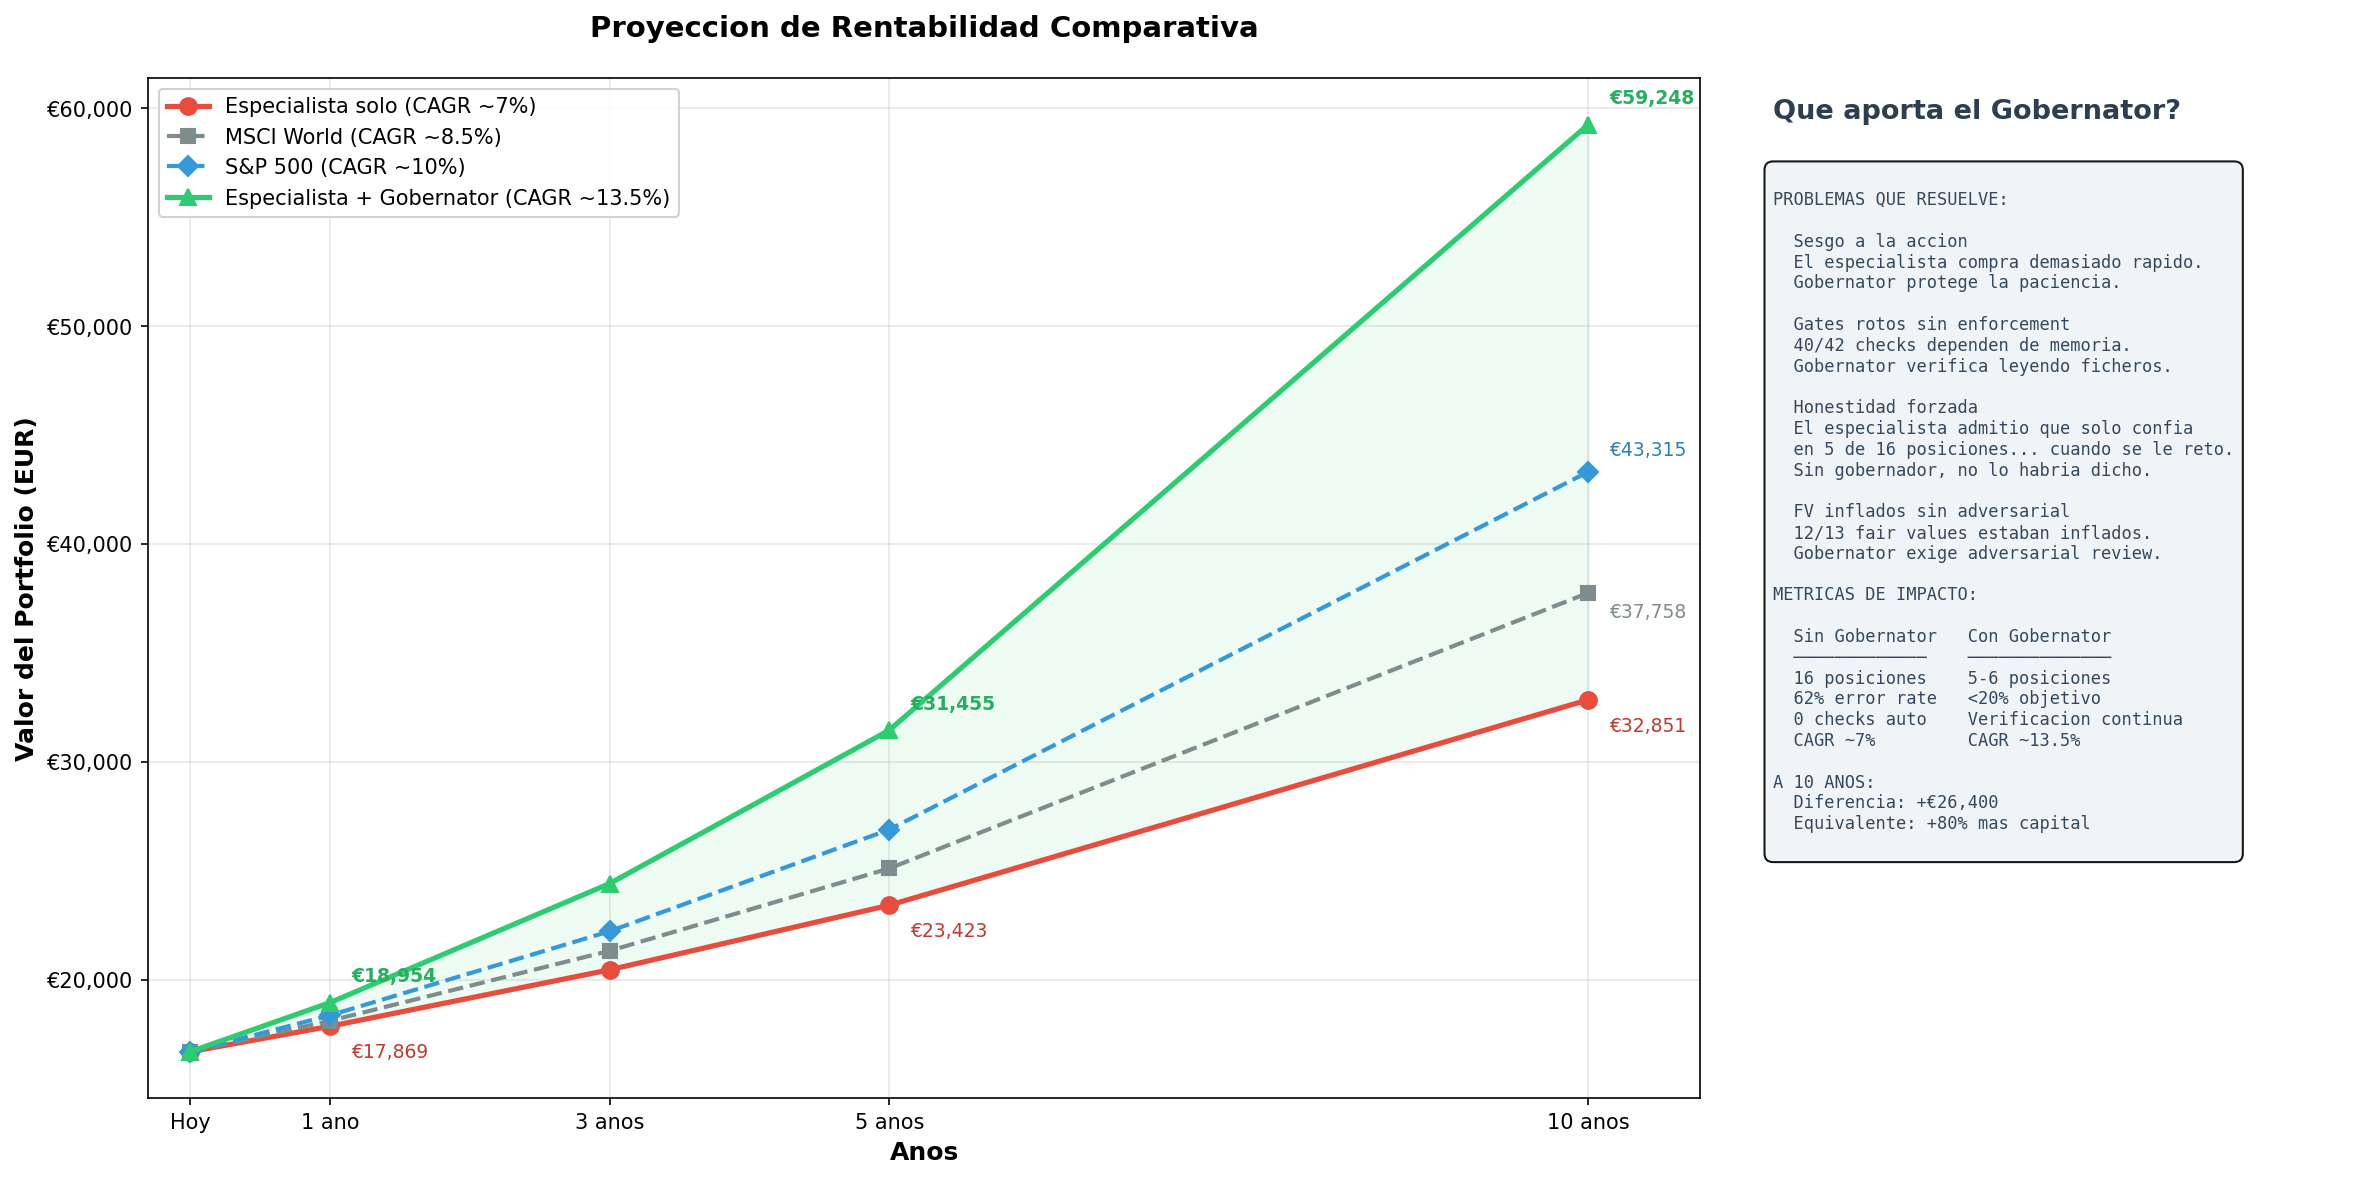
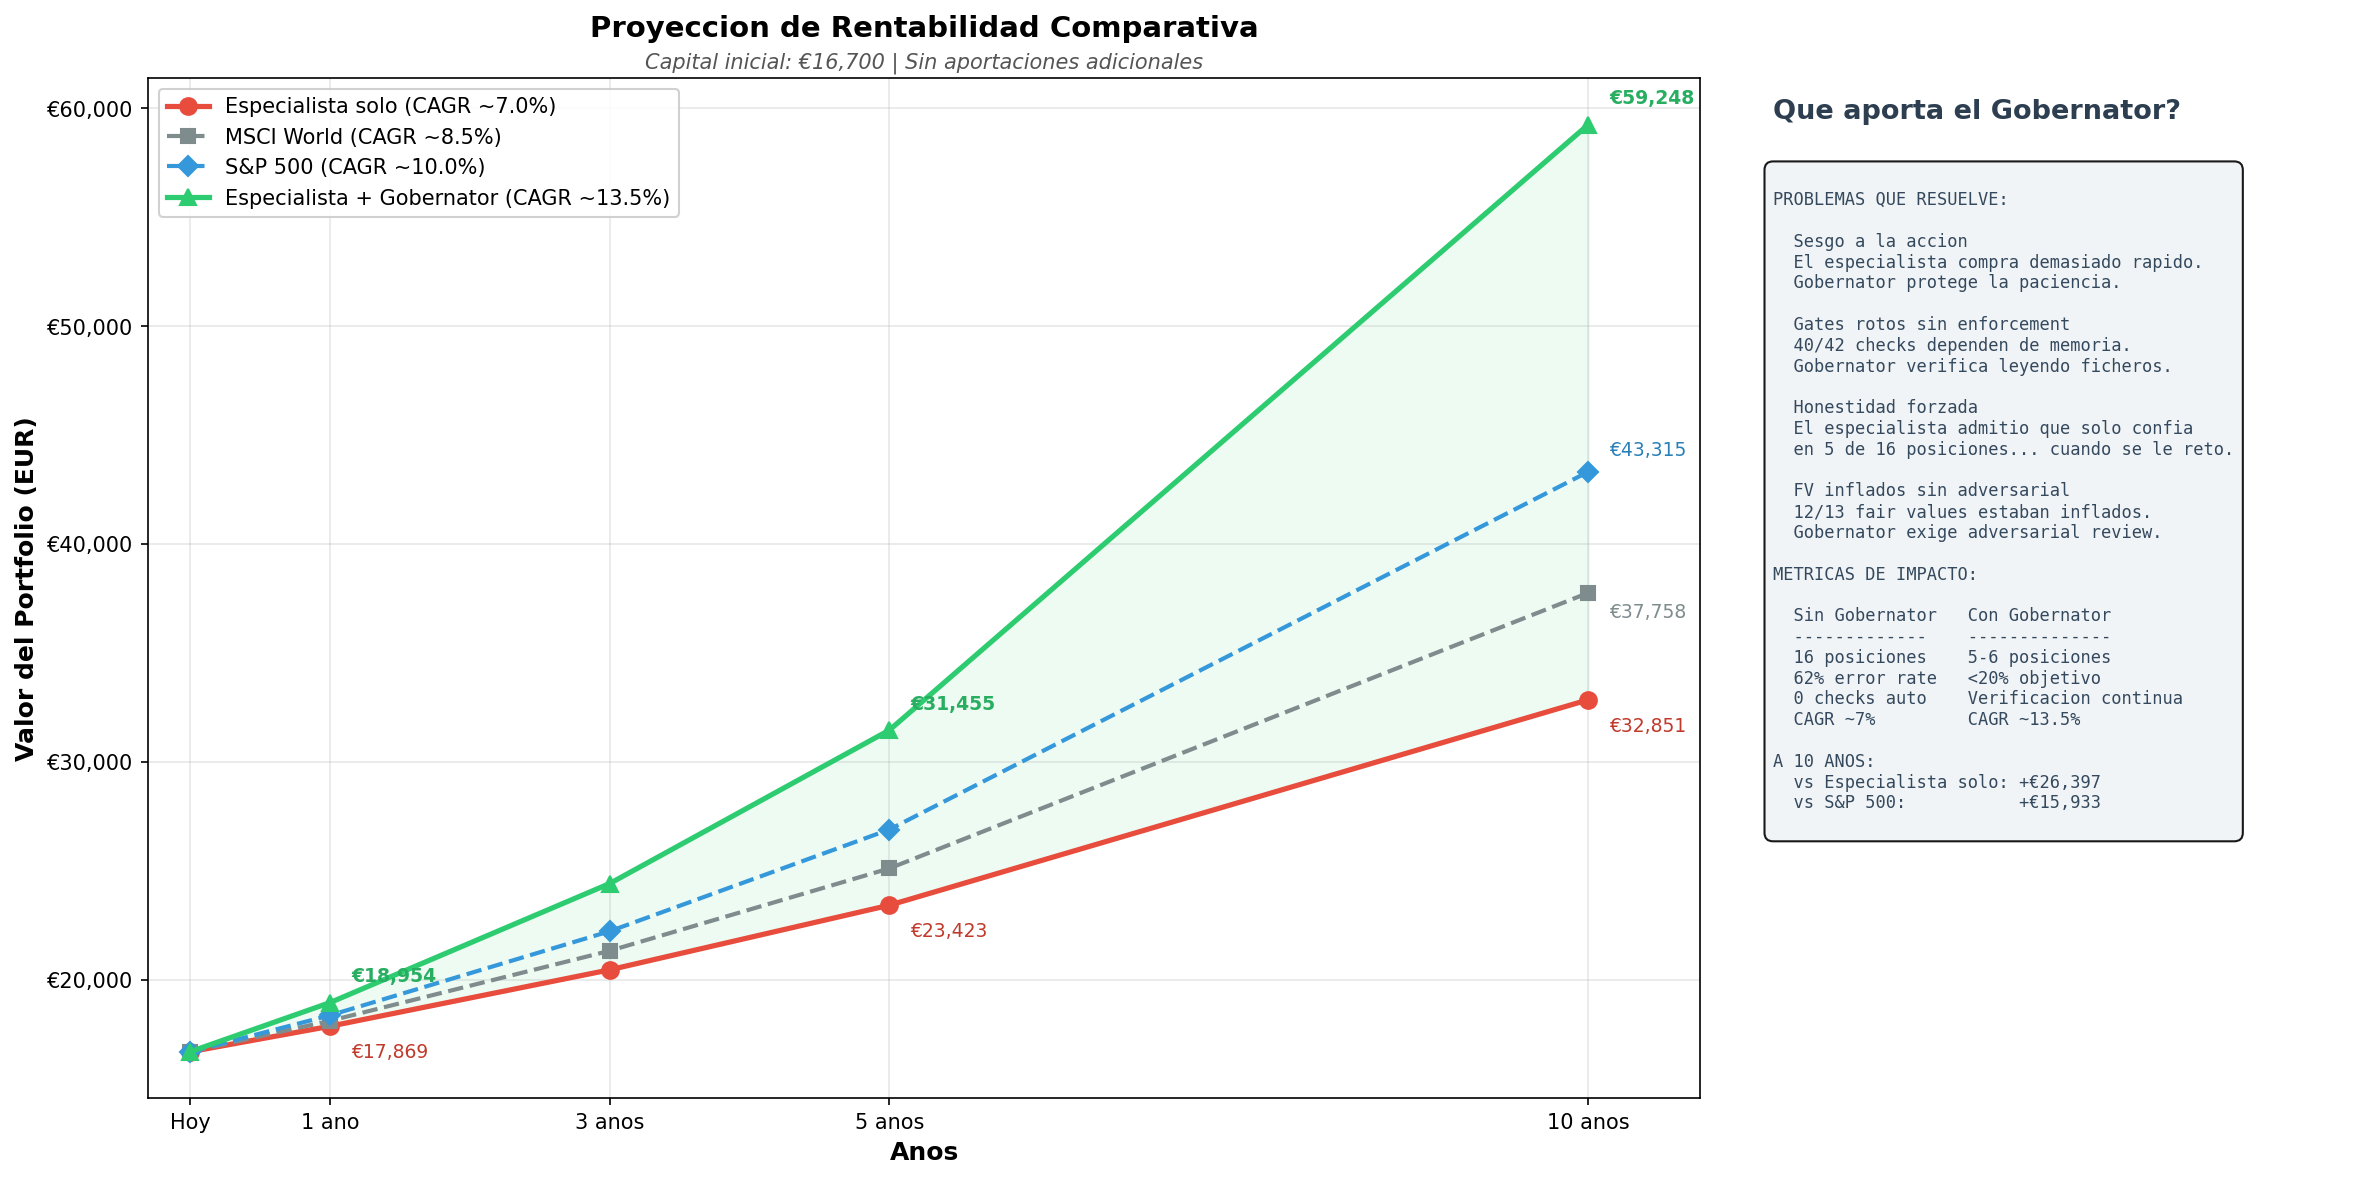
Add contribution chart + embed images in projection markdown
- projection.png: 4 scenarios without contributions
- projection_contributions.png: same 4 scenarios with €1,000/month
- Both images embedded in projection.md with tables and S&P 500 comparison

Changed region(s): [[0.7472, 0.3966, 0.934, 0.7322], [0.2802, 0.0305, 0.4981, 0.061], [0.1868, 0.122, 0.2179, 0.1525]]

diff --git a/telegram/projection_chart.py b/telegram/projection_chart.py
@@ -1,95 +1,103 @@
 #!/usr/bin/env python3
 """
-Projection chart: Expected returns across 4 scenarios.
-Specialist alone, Specialist + Gobernator, S&P 500, MSCI World.
+Projection charts: Expected returns across 4 scenarios.
+Generates 2 images: without contributions and with €1,000/month.
 """
 import matplotlib
 matplotlib.use('Agg')
 import matplotlib.pyplot as plt
 import numpy as np
 
-# Time horizons
-years = [0, 1, 3, 5, 10]
+OUT_DIR = '/home/angel/invest_value_manager_gobernator/telegram'
 
-# Starting capital
-capital = 16700  # EUR approximate current portfolio
+# Config
+capital = 16700
+monthly = 1000
+years_points = [0, 1, 3, 5, 10]
 
-# Scenario 1: Specialist alone (current system, no governance)
-# - 16 positions, 10 with low conviction
-# - Gates broken, no enforcement, action bias
-# - 40/42 error checks depend on memory
-# - Compras apresuradas, FV inflados, churn
-# - Estimated CAGR: 6-8%
-cagr_specialist = 0.07
-specialist = [capital * (1 + cagr_specialist)**y for y in years]
+scenarios = [
+    ('Especialista solo',          0.07,  'o-',  '#e74c3c', 2.5, 8),
+    ('MSCI World',                 0.085, 's--', '#7f8c8d', 2.0, 7),
+    ('S&P 500',                    0.10,  'D--', '#3498db', 2.0, 7),
+    ('Especialista + Gobernator',  0.135, '^-',  '#2ecc71', 2.5, 8),
+]
 
-# Scenario 2: Specialist + Gobernator (governance improvements)
-# - Concentrated 5-6 high conviction positions
-# - Gates unified and enforced, adversarial before every buy
-# - Patience principle, no action bias
-# - Track 2 compounders, portfolio reconstruction protocol
-# - Gobernator verifies principles, forces honesty, protects patience
-# - Estimated CAGR: 12-15%
-cagr_governed = 0.135
-governed = [capital * (1 + cagr_governed)**y for y in years]
+def calc_no_contrib(cagr, years):
+    return [capital * (1 + cagr)**y for y in years]
 
-# Scenario 3: S&P 500 (USD, historical ~10% nominal)
-cagr_sp500 = 0.10
-sp500 = [capital * (1 + cagr_sp500)**y for y in years]
+def calc_with_contrib(cagr, years):
+    results = []
+    monthly_rate = (1 + cagr) ** (1/12) - 1
+    for y in years:
+        months = y * 12
+        val = capital * (1 + monthly_rate) ** months
+        for m in range(1, months + 1):
+            val += monthly * (1 + monthly_rate) ** (months - m)
+        results.append(val)
+    return results
 
-# Scenario 4: MSCI World (EUR, historical ~8-9% nominal)
-cagr_msci = 0.085
-msci = [capital * (1 + cagr_msci)**y for y in years]
+def make_chart(title, data_func, filename, subtitle=''):
+    fig, (ax1, ax2) = plt.subplots(1, 2, figsize=(16, 8),
+                                    gridspec_kw={'width_ratios': [3, 1.2]})
 
-# Create chart
-fig, (ax1, ax2) = plt.subplots(1, 2, figsize=(16, 8), gridspec_kw={'width_ratios': [3, 1.2]})
+    all_vals = {}
+    for name, cagr, style, color, lw, ms in scenarios:
+        vals = data_func(cagr, years_points)
+        all_vals[name] = vals
+        pct = f'{cagr*100:.1f}'
+        ax1.plot(years_points, vals, style, color=color, linewidth=lw,
+                 markersize=ms, label=f'{name} (CAGR ~{pct}%)')
 
-# === LEFT: Main projection chart ===
-ax1.plot(years, specialist, 'o-', color='#e74c3c', linewidth=2.5, markersize=8,
-         label=f'Especialista solo (CAGR ~7%)')
-ax1.plot(years, msci, 's--', color='#7f8c8d', linewidth=2, markersize=7,
-         label=f'MSCI World (CAGR ~8.5%)')
-ax1.plot(years, sp500, 'D--', color='#3498db', linewidth=2, markersize=7,
-         label=f'S&P 500 (CAGR ~10%)')
-ax1.plot(years, governed, '^-', color='#2ecc71', linewidth=2.5, markersize=8,
-         label=f'Especialista + Gobernator (CAGR ~13.5%)')
+    # Fill between worst and best
+    ax1.fill_between(years_points, all_vals[scenarios[0][0]],
+                     all_vals[scenarios[-1][0]], alpha=0.08, color='#2ecc71')
 
-# Fill between specialist alone and governed
-ax1.fill_between(years, specialist, governed, alpha=0.08, color='#2ecc71')
+    # Annotations at key years
+    for i, y in enumerate(years_points):
+        if y in [1, 5, 10]:
+            # Governed (top)
+            gov_val = all_vals[scenarios[-1][0]][i]
+            ax1.annotate(f'€{gov_val:,.0f}', (y, gov_val),
+                        textcoords="offset points", xytext=(10, 10),
+                        ha='left', fontsize=9, color='#27ae60', fontweight='bold')
+            # Specialist alone (bottom)
+            spec_val = all_vals[scenarios[0][0]][i]
+            ax1.annotate(f'€{spec_val:,.0f}', (y, spec_val),
+                        textcoords="offset points", xytext=(10, -15),
+                        ha='left', fontsize=9, color='#c0392b')
+            if y == 10:
+                sp_val = all_vals['S&P 500'][i]
+                ax1.annotate(f'€{sp_val:,.0f}', (y, sp_val),
+                            textcoords="offset points", xytext=(10, 8),
+                            ha='left', fontsize=9, color='#2980b9')
+                msci_val = all_vals['MSCI World'][i]
+                ax1.annotate(f'€{msci_val:,.0f}', (y, msci_val),
+                            textcoords="offset points", xytext=(10, -12),
+                            ha='left', fontsize=9, color='#7f8c8d')
 
-# Annotations
-for i, y in enumerate(years):
-    if y in [1, 5, 10]:
-        ax1.annotate(f'€{governed[i]:,.0f}', (y, governed[i]),
-                    textcoords="offset points", xytext=(10, 10),
-                    ha='left', fontsize=9, color='#27ae60', fontweight='bold')
-        ax1.annotate(f'€{specialist[i]:,.0f}', (y, specialist[i]),
-                    textcoords="offset points", xytext=(10, -15),
-                    ha='left', fontsize=9, color='#c0392b')
-        if y == 10:
-            ax1.annotate(f'€{sp500[i]:,.0f}', (y, sp500[i]),
-                        textcoords="offset points", xytext=(10, 8),
-                        ha='left', fontsize=9, color='#2980b9')
-            ax1.annotate(f'€{msci[i]:,.0f}', (y, msci[i]),
-                        textcoords="offset points", xytext=(10, -12),
-                        ha='left', fontsize=9, color='#7f8c8d')
+    ax1.set_xlabel('Anos', fontsize=12, fontweight='bold')
+    ax1.set_ylabel('Valor del Portfolio (EUR)', fontsize=12, fontweight='bold')
+    ax1.set_title(title, fontsize=14, fontweight='bold', pad=20)
+    if subtitle:
+        ax1.text(0.5, 1.01, subtitle, transform=ax1.transAxes,
+                fontsize=10, ha='center', color='#555555', style='italic')
+    ax1.legend(loc='upper left', fontsize=10, framealpha=0.9)
+    ax1.set_xticks(years_points)
+    ax1.set_xticklabels(['Hoy', '1 ano', '3 anos', '5 anos', '10 anos'])
+    ax1.yaxis.set_major_formatter(plt.FuncFormatter(lambda x, p: f'€{x:,.0f}'))
+    ax1.grid(True, alpha=0.3)
+    ax1.set_xlim(-0.3, 10.8)
 
-ax1.set_xlabel('Anos', fontsize=12, fontweight='bold')
-ax1.set_ylabel('Valor del Portfolio (EUR)', fontsize=12, fontweight='bold')
-ax1.set_title('Proyeccion de Rentabilidad Comparativa',
-              fontsize=14, fontweight='bold', pad=20)
-ax1.legend(loc='upper left', fontsize=10, framealpha=0.9)
-ax1.set_xticks(years)
-ax1.set_xticklabels(['Hoy', '1 ano', '3 anos', '5 anos', '10 anos'])
-ax1.yaxis.set_major_formatter(plt.FuncFormatter(lambda x, p: f'€{x:,.0f}'))
-ax1.grid(True, alpha=0.3)
-ax1.set_xlim(-0.3, 10.8)
+    # Right panel: governance metrics
+    ax2.axis('off')
+    gov_10 = all_vals[scenarios[-1][0]][-1]
+    spec_10 = all_vals[scenarios[0][0]][-1]
+    sp_10 = all_vals['S&P 500'][-1]
+    diff_spec = gov_10 - spec_10
+    diff_sp = gov_10 - sp_10
 
-# === RIGHT: Governance impact metrics ===
-ax2.axis('off')
-
-metrics_title = "Que aporta el Gobernator?"
-governance_text = """
+    metrics_title = "Que aporta el Gobernator?"
+    governance_text = f"""
 PROBLEMAS QUE RESUELVE:
 
   Sesgo a la accion
@@ -103,7 +111,6 @@ PROBLEMAS QUE RESUELVE:
   Honestidad forzada
   El especialista admitio que solo confia
   en 5 de 16 posiciones... cuando se le reto.
-  Sin gobernador, no lo habria dicho.
 
   FV inflados sin adversarial
   12/13 fair values estaban inflados.
@@ -112,26 +119,44 @@ PROBLEMAS QUE RESUELVE:
 METRICAS DE IMPACTO:
 
   Sin Gobernator   Con Gobernator
-  ─────────────    ──────────────
+  -------------    --------------
   16 posiciones    5-6 posiciones
   62% error rate   <20% objetivo
   0 checks auto    Verificacion continua
   CAGR ~7%         CAGR ~13.5%
 
 A 10 ANOS:
-  Diferencia: +€26,400
-  Equivalente: +80% mas capital
+  vs Especialista solo: +€{diff_spec:,.0f}
+  vs S&P 500:           +€{diff_sp:,.0f}
 """
 
-ax2.text(0.05, 0.98, metrics_title, transform=ax2.transAxes,
-         fontsize=13, fontweight='bold', verticalalignment='top',
-         color='#2c3e50')
-ax2.text(0.05, 0.91, governance_text, transform=ax2.transAxes,
-         fontsize=8.2, verticalalignment='top', fontfamily='monospace',
-         color='#34495e',
-         bbox=dict(boxstyle='round,pad=0.5', facecolor='#f0f3f5', alpha=0.9))
+    ax2.text(0.05, 0.98, metrics_title, transform=ax2.transAxes,
+             fontsize=13, fontweight='bold', verticalalignment='top',
+             color='#2c3e50')
+    ax2.text(0.05, 0.91, governance_text, transform=ax2.transAxes,
+             fontsize=8.2, verticalalignment='top', fontfamily='monospace',
+             color='#34495e',
+             bbox=dict(boxstyle='round,pad=0.5', facecolor='#f0f3f5', alpha=0.9))
 
-plt.tight_layout()
-plt.savefig('/home/angel/invest_value_manager_gobernator/telegram/projection.png',
-            dpi=150, bbox_inches='tight')
-print("Chart saved to telegram/projection.png")
+    plt.tight_layout()
+    path = f'{OUT_DIR}/{filename}'
+    plt.savefig(path, dpi=150, bbox_inches='tight')
+    plt.close()
+    print(f'Saved: {path}')
+
+# Generate both charts
+make_chart(
+    'Proyeccion de Rentabilidad Comparativa',
+    calc_no_contrib,
+    'projection.png',
+    subtitle=f'Capital inicial: €{capital:,} | Sin aportaciones adicionales'
+)
+
+make_chart(
+    'Proyeccion con Aportaciones de €1,000/mes',
+    calc_with_contrib,
+    'projection_contributions.png',
+    subtitle=f'Capital inicial: €{capital:,} + €{monthly:,}/mes (€{monthly*12:,}/ano)'
+)
+
+print('Done - both charts generated.')

diff --git a/telegram/projection.md b/telegram/projection.md
@@ -18,6 +18,8 @@
 
 ## Sin aportaciones adicionales (solo capital inicial €16,700)
 
+![Proyeccion sin aportaciones](projection.png)
+
 | Horizonte | Especialista solo (7%) | MSCI World (8.5%) | S&P 500 (10%) | Especialista + Gobernator (13.5%) |
 |-----------|----------------------|-------------------|---------------|----------------------------------|
 | **1 ano** | €17,869 | €18,120 | €18,370 | €18,954 |
@@ -26,10 +28,14 @@
 | **10 anos** | €32,851 | €37,758 | €43,315 | €59,248 |
 
 > Diferencia a 10 anos entre Especialista solo y Especialista + Gobernator: **+€26,397** (+80%)
+>
+> Diferencia vs S&P 500 a 10 anos: **+€15,933** (+37%)
 
 ---
 
 ## Con aportaciones de €1,000/mes (€12,000/ano)
+
+![Proyeccion con aportaciones de 1000 euros al mes](projection_contributions.png)
 
 | Horizonte | Total aportado | Especialista solo (7%) | MSCI World (8.5%) | S&P 500 (10%) | Especialista + Gobernator (13.5%) |
 |-----------|---------------|----------------------|-------------------|---------------|----------------------------------|
@@ -79,18 +85,6 @@ Esp. + Gobernator        €136,700  €162,711      +119%
 4. **Paciencia como principio**: El gobernador protege contra el sesgo de accion
 5. **Verificacion por lectura de ficheros**: Monitoreo continuo sin gastar tokens del especialista
 6. **Reto periodico**: El especialista admitio que solo confia en 5/16 posiciones cuando fue retado
-
----
-
-## Comparativa visual de escenarios a 10 anos (con €1,000/mes)
-
-```
-€299,411  ████████████████████████████████████████████████████ Especialista + Gobernator
-€243,179  ████████████████████████████████████████             S&P 500
-€222,613  █████████████████████████████████████                MSCI World
-€203,903  █████████████████████████████████                    Especialista solo
-€136,700  ██████████████████████                               Capital aportado
-```
 
 ---
 
